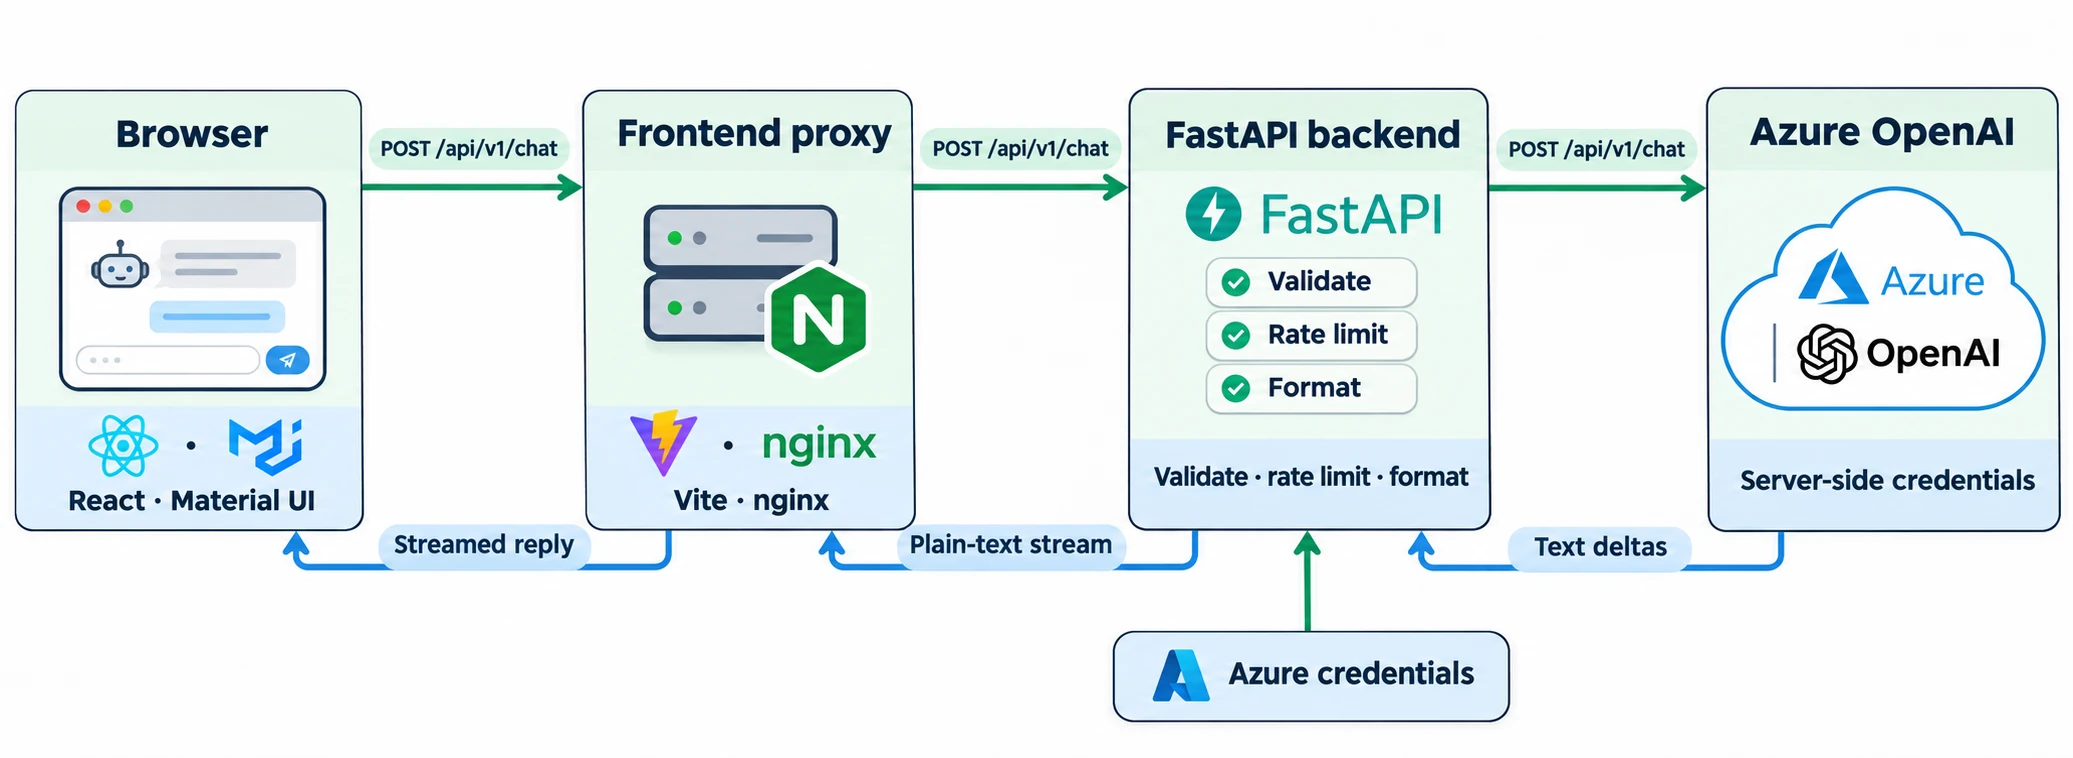
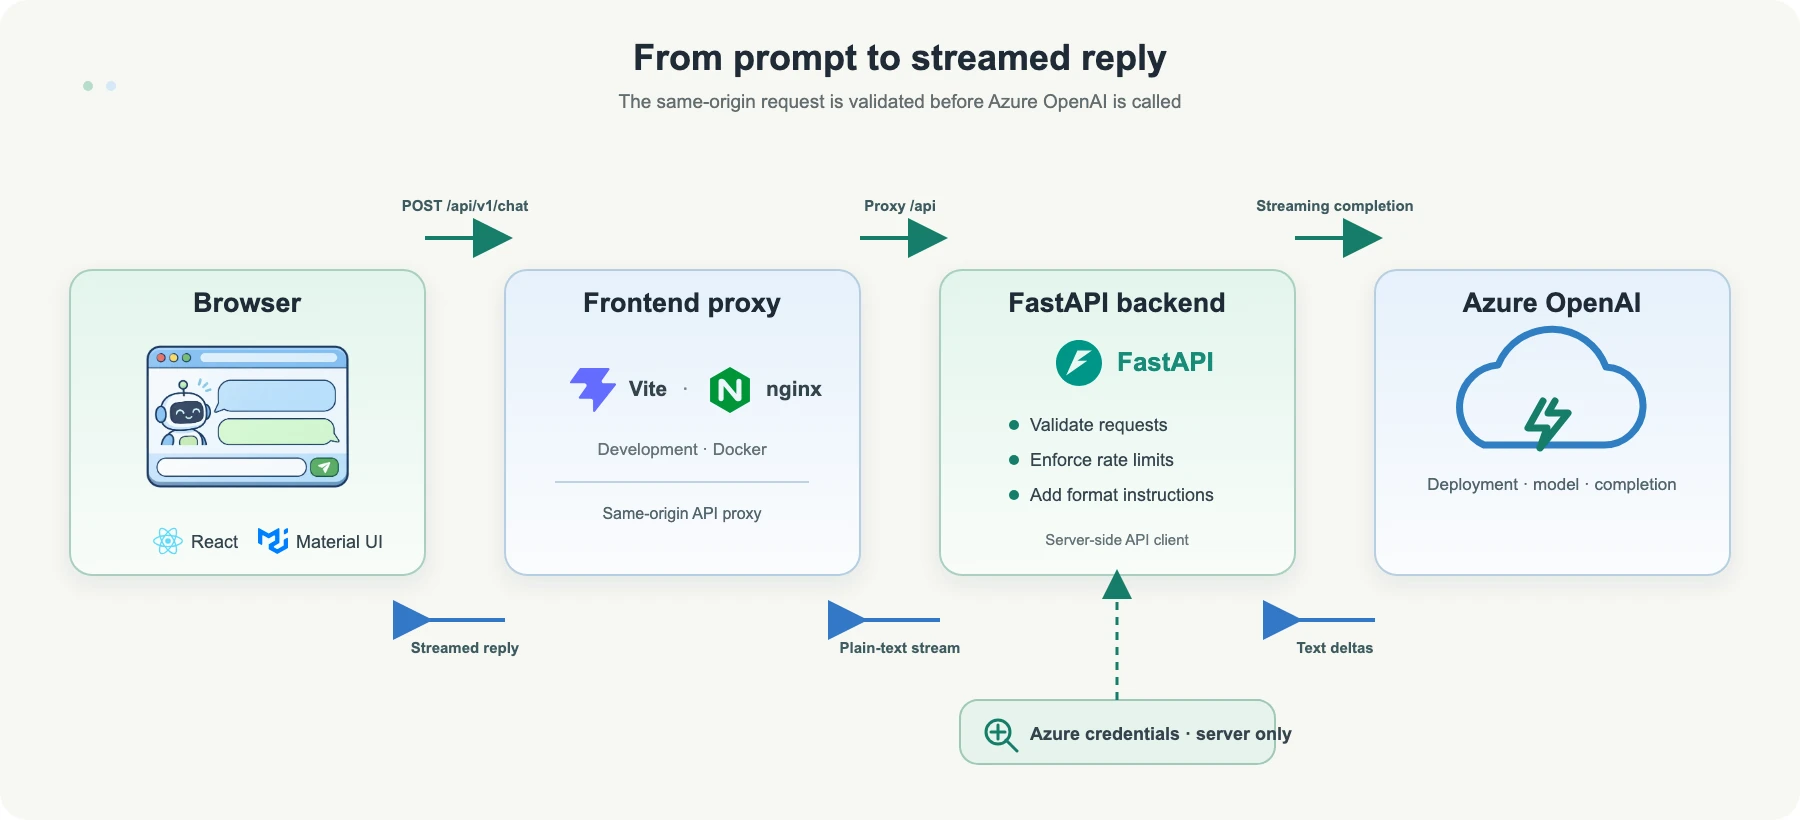
docs(illustrations): source marks and correct request flow

diff --git a/docs/illustrations.md b/docs/illustrations.md
@@ -1,40 +1,72 @@
 # Documentation illustrations
 
 These illustrations summarize the request path and quality gates. Technical
-details remain in the linked documentation and are the source of truth.
+details remain in the linked documentation and are the source of truth. Editable
+SVG files compose the diagrams; WebP files are the published versions.
 
 ## Chatbot architecture
 
 ![Browser requests pass through Vite or nginx to FastAPI and Azure OpenAI, with streamed replies returning through each layer and credentials staying server-side](images/chatbot-template-architecture.webp)
 
-- **File:** `docs/images/chatbot-template-architecture.webp`
-- **Prompt:** A wide, polished technical infographic showing Browser → Frontend
-  proxy → FastAPI backend → Azure OpenAI. Show React and Material UI in the
-  browser, Vite and nginx at the proxy, validation, rate limiting, and formatting
-  in FastAPI, and server-side Azure credentials connected only to FastAPI. Show
-  the request flowing right and the text stream returning left through all four
-  stages. Use a clean white canvas, pale green and blue panels, navy outlines,
-  and restrained teal and blue arrows. Include recognizable product logos and
-  simple interface icons. Set the exact labels to Browser, Frontend proxy,
-  FastAPI backend, Azure OpenAI, React · Material UI, Vite · nginx, POST
-  /api/v1/chat, Text deltas, Plain-text stream, Streamed reply, and Server-side
-  credentials.
-- **Icon source:** Generated as part of the illustration; labels and surrounding
-  documentation carry the technical meaning.
+- **Files:** `docs/images/chatbot-template-architecture.svg` and
+  `docs/images/chatbot-template-architecture.webp`
+- **Content:** The browser sends `POST /api/v1/chat` through the frontend proxy.
+  FastAPI forwards the request to Azure OpenAI for a streaming completion.
+  Text deltas return through FastAPI, the proxy, and the browser. Azure
+  credentials remain on the server.
+- **Image prompt:**
+
+  ```text
+  Use case: ui-mockup
+  Asset type: small decorative illustration inside a technical architecture diagram
+  Primary request: Draw a friendly browser chat window as a compact editorial illustration. Show a simple browser frame with a tiny friendly assistant robot, two pale message bubbles, and a send control.
+  Style/medium: refined flat vector art, rounded shapes, fine navy outlines, soft sky-blue and pale green surfaces, subtle depth, crisp and calm.
+  Composition/framing: centered object, front view, square transparent canvas, clear silhouette with even padding.
+  Text (verbatim): none.
+  Constraints: no product marks, no brand logos, no readable text, no watermark; keep the artwork useful at 180 by 130 pixels.
+  ```
+
+- **Logo files:** React, Material UI, Vite, nginx, and FastAPI marks are local
+  SVG files under `docs/images/icons/`, sourced from Simple Icons.
 
 ## Quality harness
 
 ![Local entry points and GitHub Actions feed six groups of code, structure, behavior, browser, security, and convention checks, with coverage floors](images/chatbot-template-quality-harness.webp)
 
-- **File:** `docs/images/chatbot-template-quality-harness.webp`
-- **Prompt:** A landscape editorial infographic with two inputs—local entry
-  points (`make qa`, `make hooks`, focused targets) and GitHub Actions (QA,
-  tests, security, Docker)—feeding six equally weighted groups: Code & types
-  (Ruff, Oxlint, ty, TypeScript); Structure (Fallow, CSS quality); Behavior
-  (pytest, Vitest, OpenAPI); Browser & accessibility (Playwright, axe,
-  Lighthouse); Security & supply chain (Gitleaks, Checkov, Trivy); Conventions
-  & evidence (prek, rumdl, ls-lint, coverage). Preserve the documented backend
-  and frontend coverage thresholds. Use pale green and blue panels, navy text,
-  readable labels, and small tool icons.
-- **Icon source:** Generated as part of the illustration; labels and surrounding
-  documentation carry the technical meaning.
+- **Files:** `docs/images/chatbot-template-quality-harness.svg` and
+  `docs/images/chatbot-template-quality-harness.webp`
+- **Content:** Local entry points (`make qa`, `make hooks`, and focused targets)
+  and GitHub Actions feed six groups of checks: code and types; structure;
+  behavior; browser and accessibility; security and supply chain; conventions
+  and review evidence. Backend coverage is 100% for lines and branches.
+  Frontend coverage is at least 90% for statements, functions, and lines, and
+  75% for branches.
+- **Image prompt:**
+
+  ```text
+  Use case: productivity-visual
+  Asset type: small decorative illustration inside a software quality overview
+  Primary request: Draw a cheerful engineering workstation for software quality: a laptop with abstract code glyphs, a compact server stack, and a simple shield with a checkmark.
+  Style/medium: refined flat vector editorial art, soft green, blue and warm neutral colors, tidy navy outlines, light depth, calm and approachable.
+  Composition/framing: compact centered group, three-quarter view, square transparent canvas with even padding, visible as a 200-pixel wide accent.
+  Text (verbatim): none.
+  Constraints: no brand marks or recognizable product logos, no readable words, no watermark; do not add extra characters or decorative rays.
+  ```
+
+- **Logo files:** GitHub Actions, Docker, and Python marks are local SVG files
+  under `docs/images/icons/`, sourced from Simple Icons.
+
+## Logo sources
+
+| Mark           | Source                                                           |
+| -------------- | ---------------------------------------------------------------- |
+| Docker         | [Simple Icons](https://cdn.simpleicons.org/docker/2496ED)        |
+| FastAPI        | [Simple Icons](https://cdn.simpleicons.org/fastapi/009688)       |
+| GitHub Actions | [Simple Icons](https://cdn.simpleicons.org/githubactions/2088FF) |
+| Material UI    | [Simple Icons](https://cdn.simpleicons.org/mui/007FFF)           |
+| nginx          | [Simple Icons](https://cdn.simpleicons.org/nginx/009639)         |
+| Python         | [Simple Icons](https://cdn.simpleicons.org/python/3776AB)        |
+| React          | [Simple Icons](https://cdn.simpleicons.org/react/61DAFB)         |
+| Vite           | [Simple Icons](https://cdn.simpleicons.org/vite/646CFF)          |
+
+Simple Icons is distributed under [CC0 1.0](https://github.com/simple-icons/simple-icons/blob/develop/LICENSE.md).

diff --git a/.agents/skills/documentation-illustrations/SKILL.md b/.agents/skills/documentation-illustrations/SKILL.md
@@ -13,19 +13,19 @@ keeping technical details accurate and searchable in the surrounding Markdown.
 1. Read the relevant documentation and `DESIGN.md`. List every referenced raster
    illustration in the requested scope, then verify each depicted fact against
    the current source or documentation.
-2. Use the built-in `image_gen` tool for original illustration artwork. Treat
-   generated text and brand marks as unreliable: use it for shapes, scenes,
-   textures, and visual accents, then typeset exact labels and compose diagrams
-   with SVG or other editable vector elements.
+2. Use the built-in `image_gen` tool for original decorative artwork. Treat
+   generated text and brand marks as unreliable: use it for scenes, textures,
+   and visual accents, then compose facts, flow arrows, and labels with SVG or
+   other editable vector elements.
 3. Use genuine logo or icon artwork from project assets, an installed icon set,
    or the brand's official media source. Preserve its shape and proportions; do
    not ask a generator to redraw a wordmark or product logo. Record any external
-   asset source in the illustration manifest.
+   asset source and applicable license in the illustration manifest.
 4. Export each final illustration to the format and path already referenced by
-   the documentation. Inspect it at its displayed size and at full resolution;
-   confirm that labels, arrows, and icons are legible and that every claim is
-   correct in light and dark viewing contexts where applicable.
-5. Keep useful alt text beside each use. Record the final prompt, alt text,
+   the documentation. Inspect the vector source and exported image at its
+   displayed size; confirm that labels, arrows, and icons are legible and every
+   claim is correct in light and dark viewing contexts where applicable.
+5. Keep useful alt text beside each use. Record the final prompts, alt text,
    content summary, and any logo/icon sources in `docs/illustrations.md`.
    Describe the whole visual in alt text without repeating nearby explanatory
    text verbatim.
